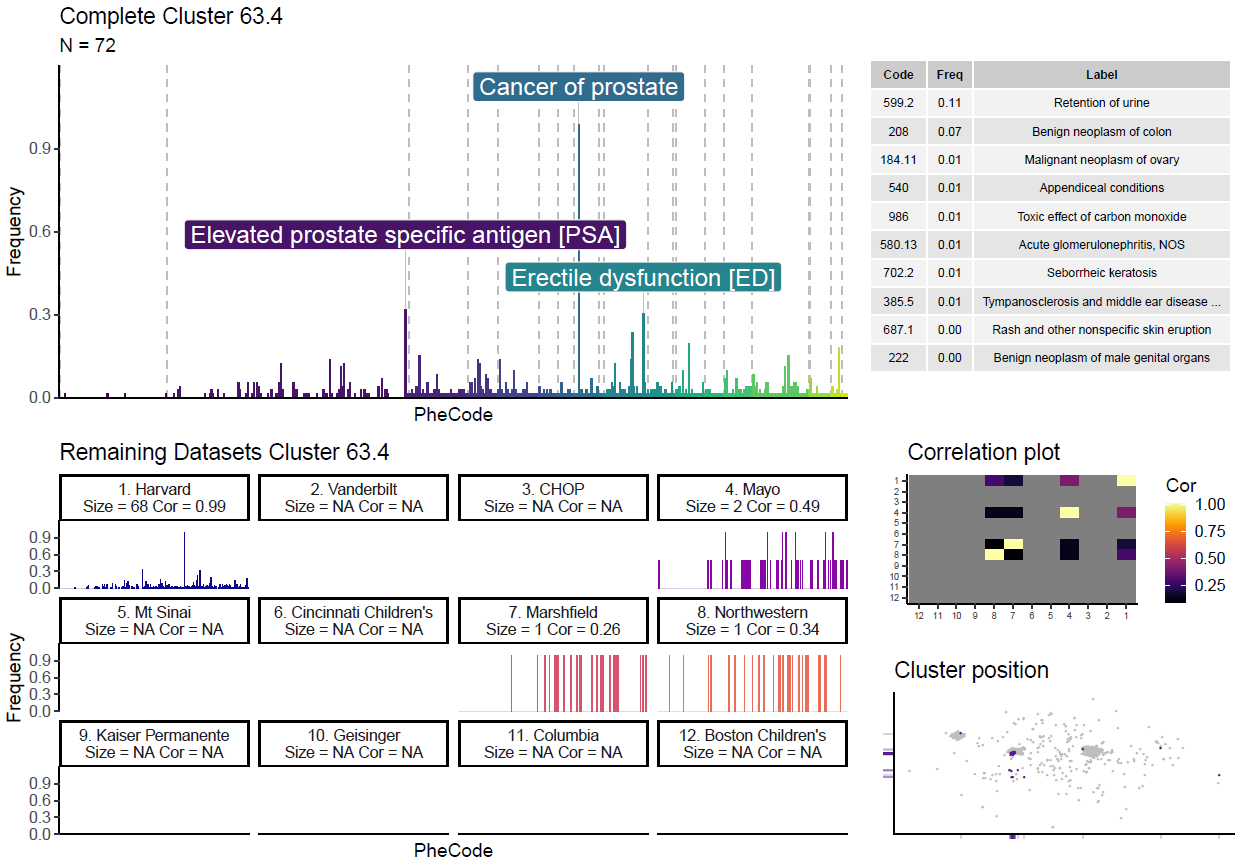
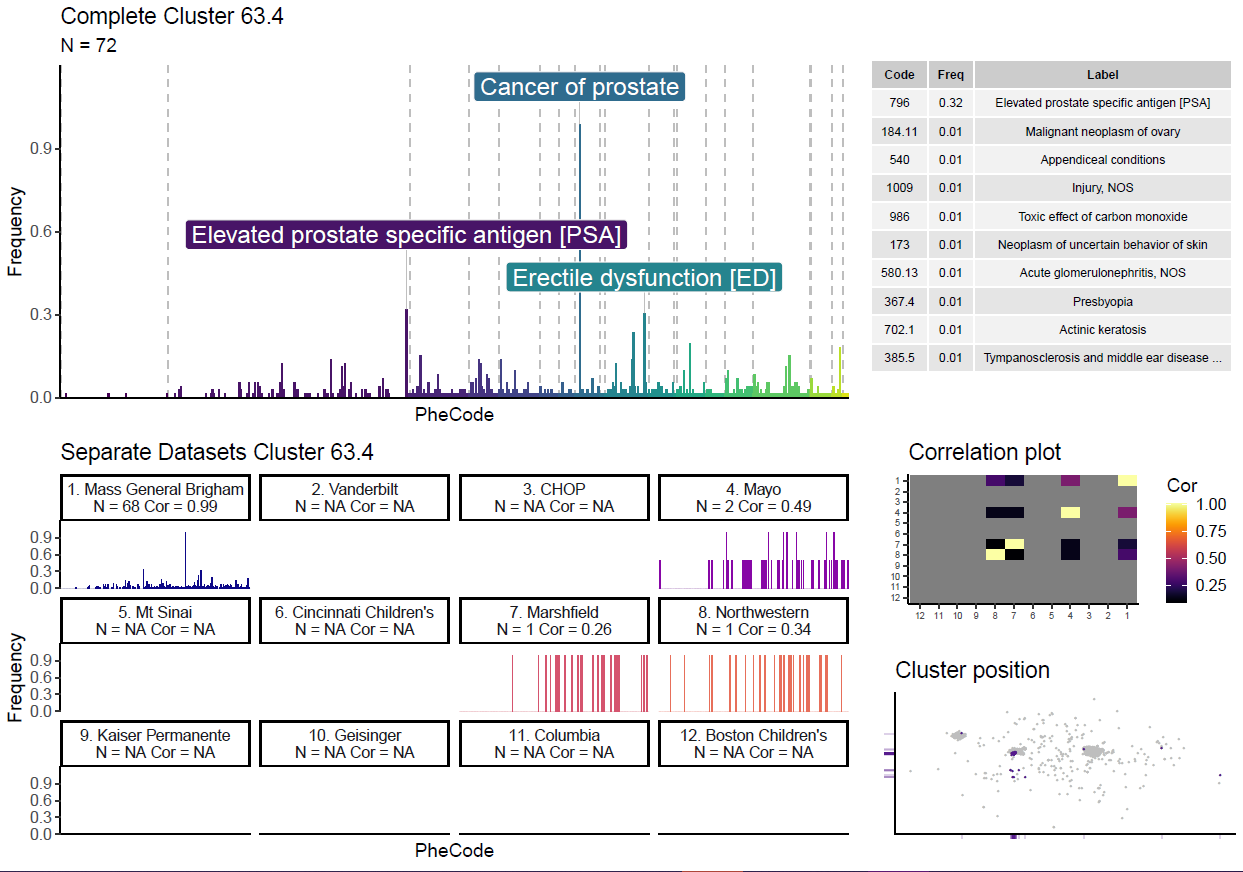
Fix MGB Name

diff --git a/README.md b/README.md
@@ -199,7 +199,7 @@
 <td align="right">8182</td>
 </tr>
 <tr>
-<td>Harvard</td>
+<td>Mass General Brigham</td>
 <td align="right">10985291</td>
 <td align="right">1013</td>
 <td align="right">1856</td>
